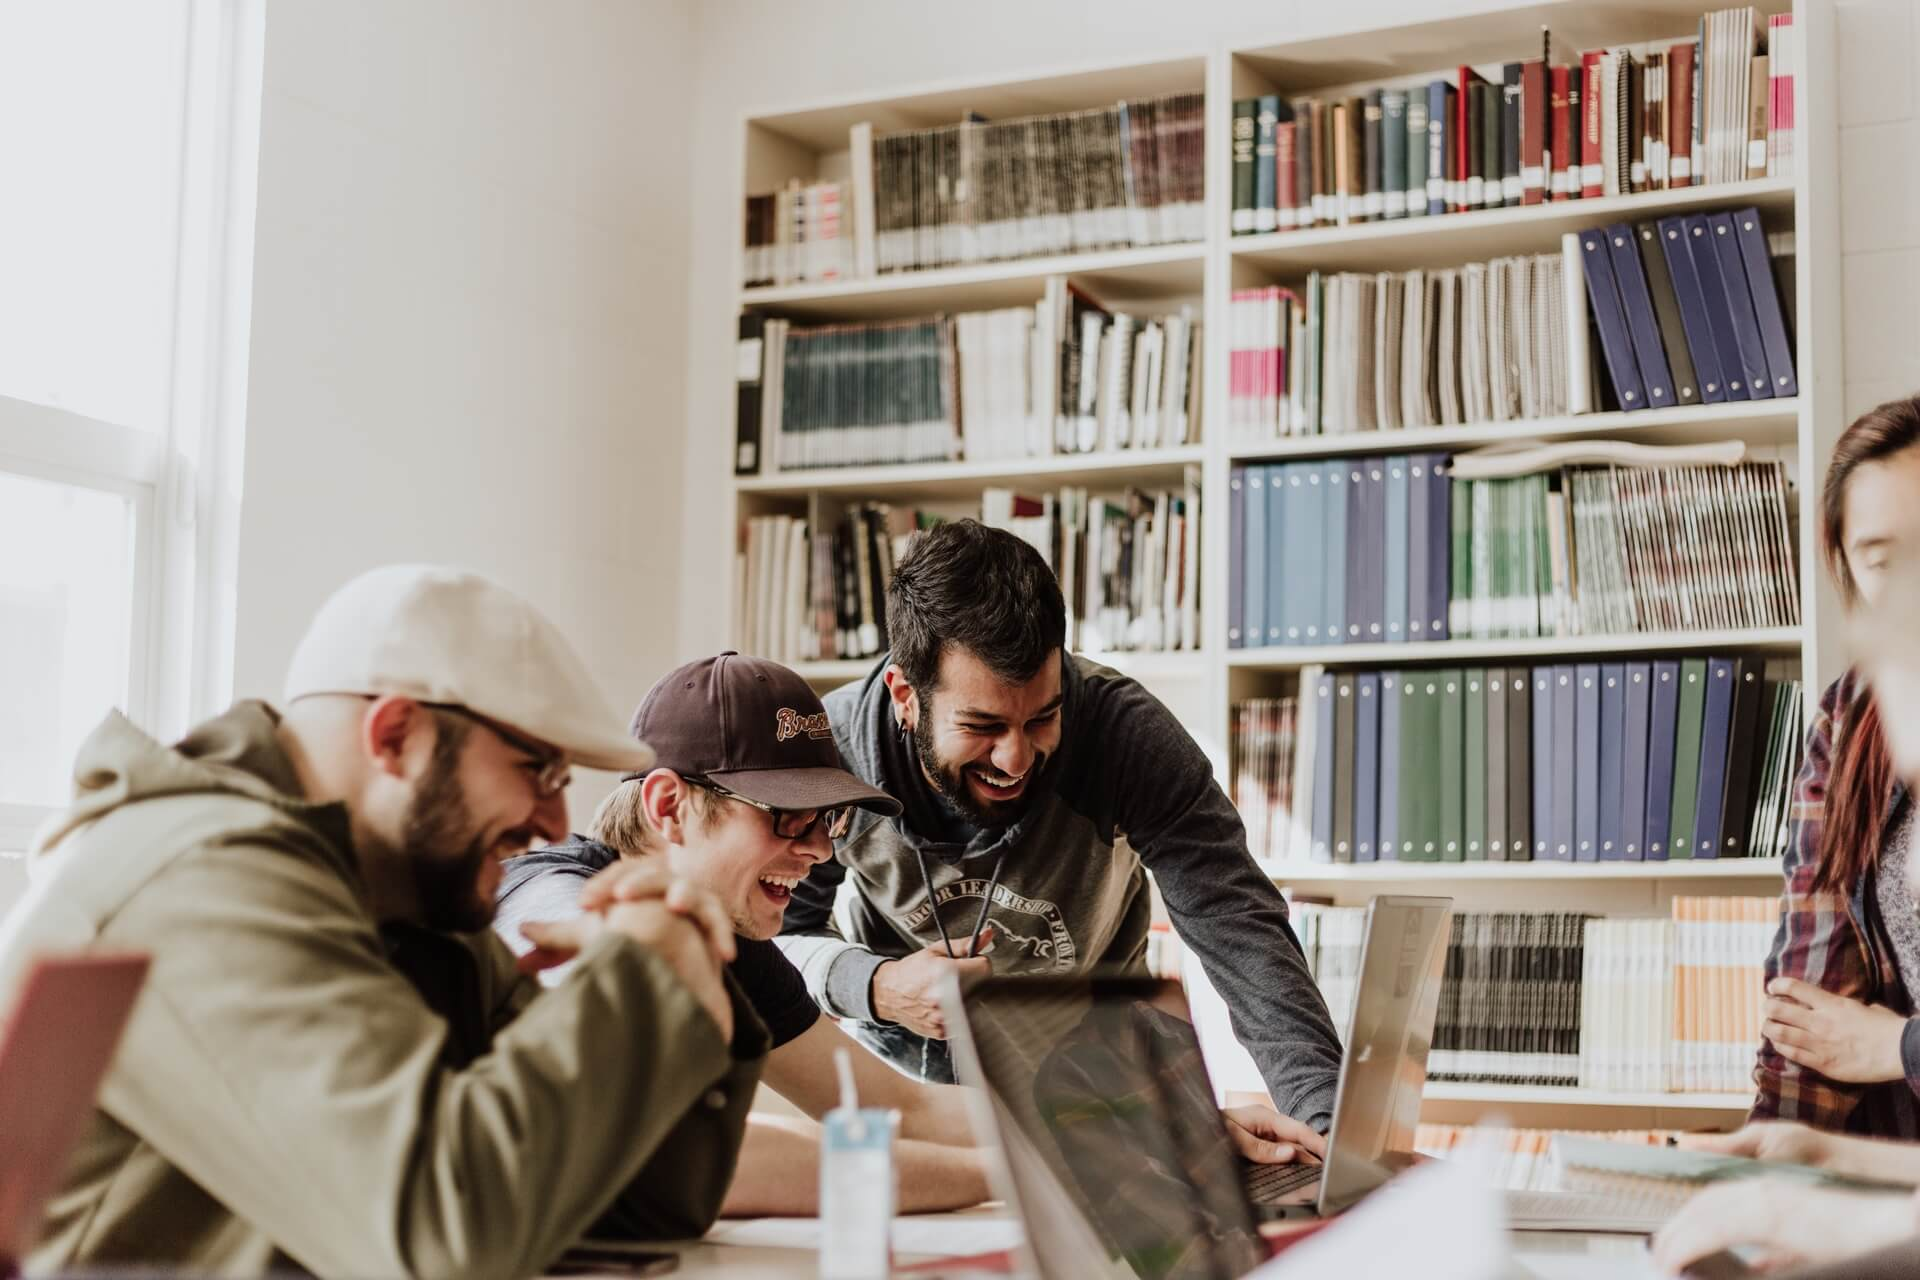
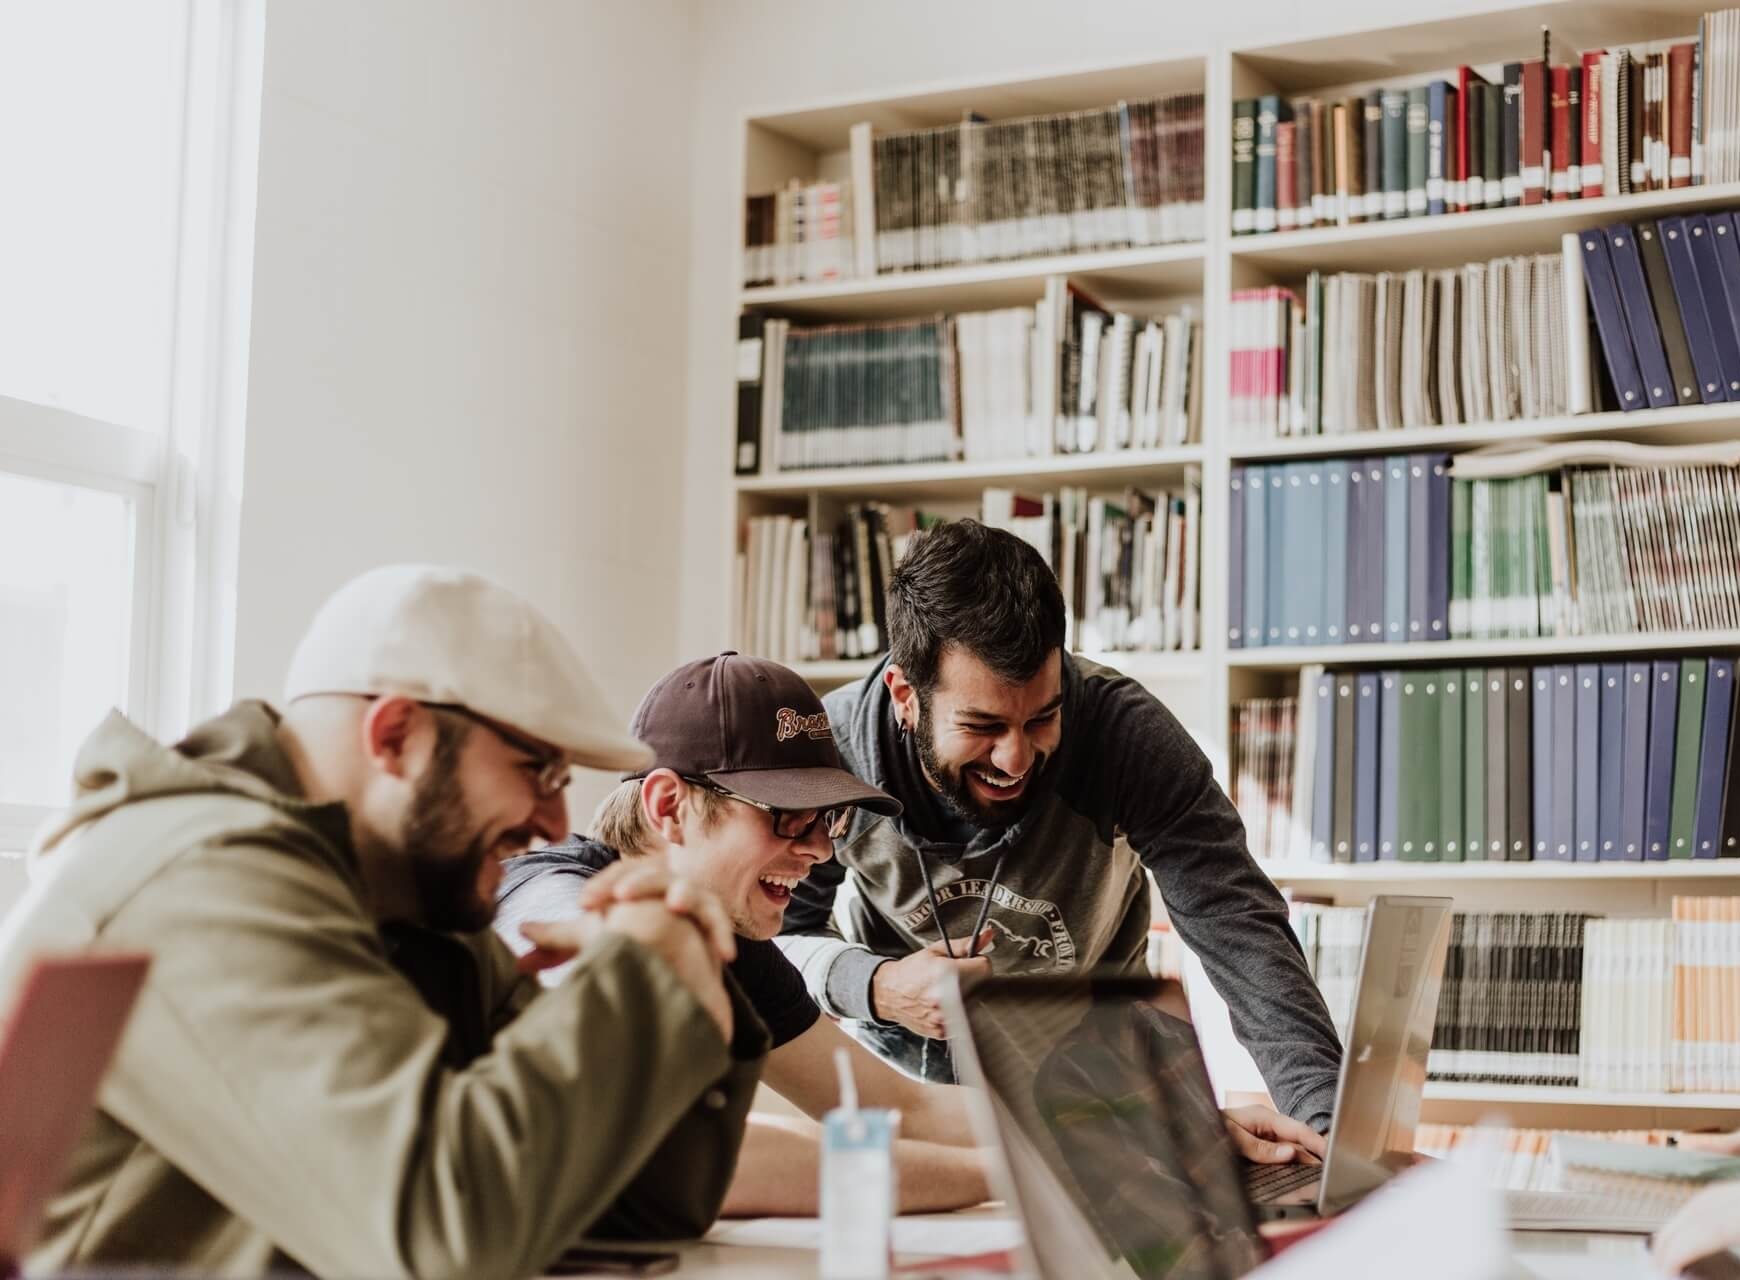
Add files via upload

diff --git a/js/index.js b/js/index.js
@@ -57,9 +57,11 @@ $(document).ready(function () {
 
 document.addEventListener('DOMContentLoaded', function () {
 
-    landingPage.fadeOut(1000, function () {
-        body.attr('style', 'overflow-y:auto');
-    });
+    setTimeout(function () {
+        landingPage.fadeOut(1000, function () {
+            body.attr('style', 'overflow-y:auto');
+        });
+    }, 500);
 
 });
 
@@ -92,7 +94,7 @@ document.addEventListener('DOMContentLoaded', function () {
 
 
 
-// !------------------------------------------------------------------   //! ????????????????? wow not work
+// !------------------------------------------------------------------ 
 
 (async function () {
     let response = await fetch('https://semicode.tech/api/v1/l10nhouse/sectors'),
@@ -105,7 +107,7 @@ document.addEventListener('DOMContentLoaded', function () {
 
             <div class="col-md-6 col-xl-3">
                 <div class="item rounded-3 p-3 text-center">
-                    <img src="images/sec/${sector.icon}" alt="${sector.name}" class="img-fluid wow animate__jello" data-wow-duration-"0.5s"> 
+                    <img src="images/sec/${sector.icon}" alt="${sector.name}" class="img-fluid"> 
                     <p class="mb-0 mt-3 text-dark rounded-1">${sector.name}</p>
                 </div>
             </div>
@@ -156,7 +158,8 @@ $(document).on('scroll', function () {
             sectionId = $section.attr('id'),
             sectionTop = $section.offset().top,
             sectionBottom = sectionTop + $section.outerHeight(),
-            navbarHeight_2 = $('nav').outerHeight(),
+
+            navbarHeight_2 = $('nav').outerHeight() + 10,
             scrollY = window.scrollY + navbarHeight_2;
 
         if (scrollY > sectionTop && scrollY < sectionBottom) {
@@ -165,9 +168,7 @@ $(document).on('scroll', function () {
         }
     });
 
-
     // !----------- scrollTopBtn --------------
-
 
     if ((window.scrollY <= window.innerHeight / 2) && !isHovered) {
         scrollTopBtn.addClass('hide');
@@ -202,35 +203,16 @@ scrollTopBtn.click(function () {
     window.scrollTo(0, 0);
 });
 
-// !------------------------------------------------------------------   //! ?????????????????
+// !------------------------------------------------------------------ 
 
 //? navbar links , arrows down , anchor scroll to video section
-// $('nav .nav-link[href] , .arrows , a[href="#Video"]').click(function (e) {
-//     e.preventDefault();
-
-
-//     if ($(this).parents('.navbar-collapse').hasClass('show')) {
-//         $(".navbar-toggler").click();
-//     }
-//     scrollToSection($(this));
-// });
-
-
-// //? Navbar links, down arrows, and the anchor link to the video section
-$('nav .nav-link[href], .arrows, a[href="#Video"]').click(function (e) {
+$('nav .nav-link[href] , .arrows , a[href="#Video"]').click(function (e) {
     e.preventDefault();
 
-    let timeFunction = 1;
 
-    if (window.scrollY < 25 && ($(this).attr('href') != '#Home')) {
-        scrollTo(0, 25);
-        timeFunction = 80;
+    if ($(this).parents('.navbar-collapse').hasClass('show')) {
+        $(".navbar-toggler").click();
     }
-
-    setTimeout(() => {
-
-        navbarHeight_1 = $("nav").outerHeight();
-
-        scrollToSection($(this));
-    }, timeFunction);
+    scrollToSection($(this));
 });
+

diff --git a/index.html b/index.html
@@ -63,7 +63,7 @@
                 <span></span>
             </button>
 
-            <div class="collapse navbar-collapse rounded-3 justify-content-end mt-3 mt-lg-0"
+            <div class="collapse navbar-collapse rounded-4 justify-content-end mt-3 mt-lg-0"
                 id="navbarSupportedContent">
                 <div class="p-4 p-lg-0">
                     <ul class="navbar-nav gap-3 ms-auto mb-0">
@@ -89,8 +89,7 @@
                             <a class="nav-link p-0">New Vendor!</a>
                         </li>
                         <li class="nav-item dropdown">
-                            <a class="nav-link p-0" role="button" data-bs-toggle="dropdown"
-                                aria-expanded="false">
+                            <a class="nav-link p-0" role="button" data-bs-toggle="dropdown" aria-expanded="false">
                                 Login
                             </a>
                             <ul class="dropdown-menu">
@@ -111,7 +110,7 @@
         <div class="container h-100">
             <div class="row align-items-center row-gap-2 h-100">
                 <div class="part1 col-md-6">
-                    <div class="item wow animate__fadeInLeft" data-wow-duration="1.5s">
+                    <div class="item wow animate__fadeInLeft" data-wow-duration="1.5s" data-wow-delay="1s">
                         <h1>L10N House</h1>
                         <p>will help you communicate your message</p>
 
@@ -131,7 +130,7 @@
                 <div class="part2 col-md-6">
                     <div class="item text-center">
                         <img src="images/globe-png-39540.png" alt="Earth planet" class="img-fluid wow animate__zoomIn"
-                            data-wow-duration="1.5s">
+                            data-wow-duration="1.5s" data-wow-delay="1s">
                     </div>
                 </div>
             </div>
@@ -421,7 +420,8 @@
 
     <footer>
         <p class="mb-0 text-center py-2 text-black fw-medium">&copy; 2021 <a href="https://semicode.tech/"
-                target="_blank" class="second-color wow animate__bounceIn d-inline-block" data-wow-duration="1.5s">SemiCode</a>, Ltd. |
+                target="_blank" class="second-color wow animate__bounceIn d-inline-block"
+                data-wow-duration="1.5s">SemiCode</a>, Ltd. |
             All Rights Reserved .
         </p>
     </footer>
@@ -508,4 +508,3 @@
 </body>
 
 </html>
-

diff --git a/css/index.css b/css/index.css
@@ -357,7 +357,6 @@ nav.navbar {
   left: 0px;
   z-index: 110;
   width: 100%;
-  transition: 0.5s;
 }
 nav.navbar.scrolled {
   background: #fff;
@@ -447,8 +446,10 @@ nav.navbar .navbar-toggler[aria-expanded=true] span:nth-of-type(3) {
 }
 @media (max-width: 1300px) {
   nav.navbar .navbar-collapse {
-    background: #fff;
-    box-shadow: 0 0 10px 2px #76A244;
+    box-shadow: 0 0 50px rgba(75, 74, 74, 0.6235294118);
+    background: #8e9eab;
+    background: -webkit-linear-gradient(to right, #eef2f3, #8e9eab);
+    background: linear-gradient(to right, #eef2f3, #8e9eab);
   }
 }
 @media (min-width: 992px) and (max-width: 1300px) {
@@ -955,10 +956,27 @@ nav.navbar .navbar-collapse .nav-link:hover::after, nav.navbar .navbar-collapse 
   flex-direction: row;
   justify-content: center;
   align-items: center;
-  background: linear-gradient(to right, rgb(234, 234, 234), rgb(219, 219, 219), rgb(242, 242, 242), rgb(173, 169, 150));
+  background: #8e9eab;
+  background: -webkit-linear-gradient(to right, #eef2f3, #8e9eab);
+  background: linear-gradient(to right, #eef2f3, #8e9eab);
 }
 #LoadingPage .box img {
   animation: zoom-in-out 1s infinite linear alternate;
+}
+@media (max-width: 1300px) {
+  #LoadingPage .box img {
+    max-width: 180px;
+  }
+}
+@media (min-width: 577px) and (max-width: 1300px) {
+  #LoadingPage .box img {
+    max-width: 230px;
+  }
+}
+@media (min-width: 769px) and (max-width: 1300px) {
+  #LoadingPage .box img {
+    max-width: 100%;
+  }
 }
 
 /*# sourceMappingURL=index.css.map */

diff --git a/css/scss/components/_loading.scss b/css/scss/components/_loading.scss
@@ -2,16 +2,30 @@
 
 #LoadingPage {
 
-    @include position (fixed,0,null,null,0,2000);
+    @include position (fixed, 0, null, null, 0, 2000);
     @include distance(100%, 100%);
     @include flex();
-    background: linear-gradient(to right, rgb(234, 234, 234), rgb(219, 219, 219), rgb(242, 242, 242), rgb(173, 169, 150));
+
+    background: #8e9eab;
+    background: -webkit-linear-gradient(to right, #eef2f3, #8e9eab);
+    background: linear-gradient(to right, #eef2f3, #8e9eab);
 
 
     .box {
         img {
             animation: zoom-in-out 1s infinite linear alternate;
 
+            @include respond(350) {
+                max-width: 180px;
+            }
+
+            @include respond(650) {
+                max-width: 230px;
+            }
+
+            @include respond(850) {
+                max-width: 100%;
+            }
         }
     }
 }

diff --git a/js/functions.js b/js/functions.js
@@ -136,20 +136,11 @@ function checkNavOnScroll() {
 //! _________________________________________________________     
 
 
-// function scrollToSection(that) {
-
-//     let $sectionId = that.attr('href'),
-//         $section = $($sectionId),
-//         $sectionOffsetTop = $section.offset().top;
-
-//     window.scrollTo(0, $sectionOffsetTop - navbarHeight_1 + 32);     //! ????????????????? 32
-// }
-
 function scrollToSection(that) {
 
     let $sectionId = that.attr('href'),
         $section = $($sectionId),
         $sectionOffsetTop = $section.offset().top;
 
-    window.scrollTo(0, $sectionOffsetTop - navbarHeight_1);     //! ????????????????? 32
+    window.scrollTo(0, $sectionOffsetTop - navbarHeight_1 + 35);
 }

diff --git a/css/scss/components/_navbar.scss b/css/scss/components/_navbar.scss
@@ -4,7 +4,6 @@ nav.navbar {
 
     @include position(fixed, 0px, null, null, 0px, 110);
     width: 100%;
-    transition: 0.5s;
 
     //! -----------------------------------------
 
@@ -121,8 +120,11 @@ nav.navbar {
     .navbar-collapse {
 
         @include respond(350) {
-            background: #fff;
-            box-shadow: 0 0 10px 2px $firstColor ;
+            box-shadow: 0 0 50px #4b4a4a9f;
+
+            background: #8e9eab;
+            background: -webkit-linear-gradient(to right, #eef2f3, #8e9eab);
+            background: linear-gradient(to right, #eef2f3, #8e9eab);
         }
 
         @include respond(1050) {
